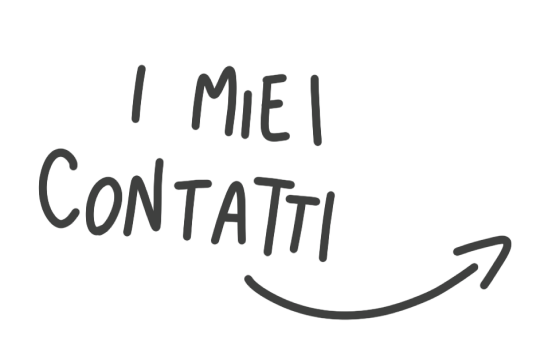
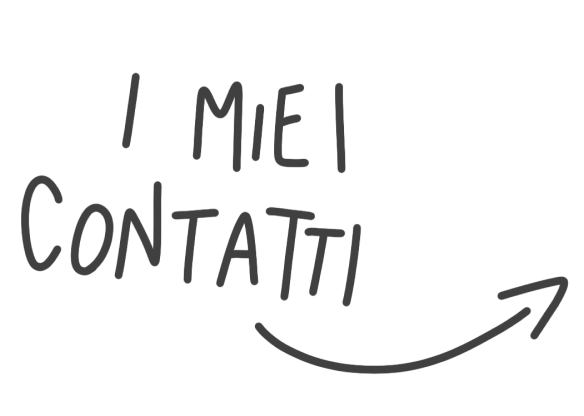
:bento: Add/Update Stickers

diff --git a/styles/style.css b/styles/style.css
@@ -237,6 +237,12 @@
 /* End Content Skills */
 
 /* Content Project */
+.content-cardboard-project{
+    display: flex;
+    flex-direction: column;
+    justify-content: space-between;
+    height: 100%;
+}
 .content-cardboard-project-header{
     display: flex;
     margin-bottom: 32px;
@@ -407,7 +413,6 @@ ion-icon{
     width: 220px;
     height: auto;
     border-radius: 20px;
-    
 }
 .popup img{
     width: 100px;
@@ -417,9 +422,9 @@ ion-icon{
 }
 /* End Pop Up */
 
-
-/* Stiker */
+/* Sticker Mobile*/
 .sticker-ciao{
+    display: block;
     position: absolute;
     width: 129px;
     height: 127px;
@@ -431,22 +436,83 @@ ion-icon{
     width: 100%;
     height: 100%;
 }
-.sticker-presentation{
+.sticker-about-desktop{
+    display: none;
+}
+.sticker-about-mobile-tablet{
+    display: block;
     position: absolute;
     width: 200px;
-    height: 114px;
-    top: -23px;
-    left: 357px;
-    transform: translate(-50%, -50%) rotate(315deg);
+    height: 89px;
+    left: 256px;
+    top: -31px;
+    transform: translate(-50%, -50%);
 }
-.sticker-presentation img{
+.sticker-about-mobile-tablet img,
+.sticker-about-desktop img{
     width: 100%;
     height: 100%;
 }
 .sticker-contacts{
     display: none;
 }
-/* End Stiker */
+.sticker-contacts img{
+    width: 100%;
+    height: 100%;
+}
+.sticker-skills{
+    display: block;
+    position: absolute;
+    width: 135px;
+    height: 120px;
+    left: 160px;
+    top: -17px;
+    transform: translate(-50%, -50%);
+}
+.sticker-skills img{
+    width: 100%;
+    height: 100%;
+}
+.sticker-study{
+    display: block;
+    position: absolute;
+    width: 108px;
+    height: 118px;
+    left: 302px;
+    top: 44px;
+    transform: translate(-50%, -50%);
+}
+.sticker-study img{
+    width: 100%;
+    height: 100%;
+}
+.sticker-project{
+    display: block;
+    position: absolute;
+    width: 301px;
+    height: 106px;
+    left: 413px;
+    top: 19px;
+    transform: translate(-50%, -50%);
+}
+.sticker-project img{
+    width: 100%;
+    height: 100%;
+}
+.sticker-contact-me{
+    display: block;
+    position: absolute;
+    width: 180px;
+    height: 93px;
+    left: 81px;
+    bottom: -69px;
+    transform: translate(-50%, -50%);
+}
+.sticker-contact-me img{
+    width: 100%;
+    height: 100%;
+}
+/* End Stiker Mobile */
 
 /* Device Content Tablet */
 /* 
@@ -517,13 +583,16 @@ ion-icon{
 
     /* Sticker */
     .sticker-ciao{
-        top: 3px;
         left: 25px;
     }
-    .sticker-presentation{
-        top: -1px;
-        left: 313px;
-        transform: rotate(0);
+    .sticker-contacts{
+        display: none;
+    }
+    .sticker-contact-me{
+        width: 237px;
+        height: 123px;
+        left: 413px;
+        bottom: -91px;
     }
     /* End Sticker */
 }
@@ -648,25 +717,36 @@ ion-icon{
 
     /* Sticker */
     .sticker-ciao{
-        top: 3px;
         left: 40px;
     }
-    .sticker-presentation{
-        left: 463px;
-        transform: rotate(0);
+    .sticker-about-mobile-tablet{
+        display: none;
+    }
+    .sticker-about-desktop{
+        display: block;
+        position: absolute;
+        width: 214px;
+        height: 123px;
+        top: 0px;
+        left: 560px;
+        transform: translate(-50%, -50%);
     }
     .sticker-contacts{
         display: block;
         position: absolute;
         width: 138px;
         height: 88px;
-        top: 114px;
-        left: -52px;
+        top: 94px;
+        left: -56px;
         transform: translate(-50%, -50%);
     }
-    .sticker-contacts img{
-        width: 100%;
-        height: 100%;
+    .sticker-study{
+        left: 363px;
+    }
+    .sticker-contact-me{
+        width: 237px;
+        height: 123px;
+        left: 887px;
     }
     /* End Sticker */
 }

diff --git a/index.html b/index.html
@@ -54,6 +54,7 @@
                         <img src="./assets/ciao.png" alt="ciao-icon">
                     </div>
                 </div>
+
                 <!-- Cardboard About -->
                 <div class="cardboard-about cardboard centered">
                     <div class="content-cardbord-about">
@@ -61,8 +62,13 @@
                         sempre pronta a mettere in gioco la mia <b>creatività</b> e <b>passione</b> per tradurre le idee in design accattivanti, mantenendo sempre <b>l’utente al centro del processo</b>. Determinata ad affrontare nuove sfide, arricchire il mio bagaglio e contribuire positivamente a progetti entusiasmanti. <br><b>Benvenuti nel mio portfolio!</b> dove ogni pixel ha un significato e ogni interazione è un'opportunità per stupire.
                        </p>
                     </div>
-                    <div class="sticker-presentation">
-                        <img src="./assets/mi-presento.png" alt="mi-presento-icon">
+
+                    <!-- Sticker -->
+                    <div class="sticker-about-mobile-tablet">
+                        <img src="./assets/mi-presento-m.png" alt="mi-presento-icon">
+                    </div>
+                    <div class="sticker-about-desktop">
+                        <img src="./assets/mi-presento-d.png" alt="mi-presento-icon">
                     </div>
                 </div>
             </div>
@@ -102,7 +108,7 @@
                 </div>
                 <!-- Sticker -->
                 <div class="sticker-contacts">
-                    <img src="./assets/i-miei-contatti.png" alt="i-miei-contatti-icon">
+                    <img src="./assets/i-miei-contatti.png" alt="i-miei-contatti.icon">
                 </div>
             </div>
 
@@ -131,9 +137,9 @@
                         </div>
                     </div>
                     <!-- Sticker -->
-                    <div class="sticker-skills">
-                        <img src="./assets/mi-diverto-con.png" alt="mi-diverto-con-icon">
-                    </div>
+                   <div class="sticker-skills">
+                        <img src="./assets/mi-diverto-con-d.png" alt="mi-diverto-con-icon">
+                   </div>
                 </div>
                 <!-- Cardboard Study -->
                 <div class="cardboard-study cardboard ">
@@ -149,6 +155,10 @@
                         <p class="text"><b>Laurea in Grafica d'Arte</b> 2018-2022</p>
                         <p class="text">Skills:</p>
                         <p class="text">Grafica, Psicologia della Forma, Utilizzo pacchetto Adobe.</p>
+                    </div>
+                    <!-- Sticker -->
+                    <div class="sticker-study">
+                        <img src="./assets/note-pad.png" alt="note-pad-icon">
                     </div>
                 </div>
             </div>
@@ -209,6 +219,10 @@
                 <div class="cta-send-message">
                     <button id="submit-button" onclick="sendMail()" class="button" type="submit">Invia il messaggio</button>
                 </div>
+            </div>
+            <!-- Sticker -->
+            <div class="sticker-contact-me">
+                <img src="./assets/facciamoci-un-caffe-d.png" alt="facciamoci-un-caffe-d-icon">
             </div>
         </div>
 

diff --git a/js/script.js b/js/script.js
@@ -75,10 +75,17 @@ function closePopup (){
 /**
  * gsap
  */
-// const tl = new gsap.timeline({defaults: {duration: 1}})
-// tl.from(".cardboard-image", { y: 200, autoAlpha: 0 });
-// tl.from(".cardboard-title", { y: 200, autoAlpha: 0 }, '<0.2');
-// tl.from(".cardboard-about", { y: 200, autoAlpha: 0 }, '<0.2');
-// tl.from(".cardboard-contacts", { x: -200, autoAlpha: 0 }, '<0.2');
-// tl.from(".skills-study", { x: 200, autoAlpha: 0 }, '<0.2');
-// tl.from(".cardboard-project", { y: 200, autoAlpha: 0 }, '<0.2');
+const tl = new gsap.timeline({defaults: {duration: 1}})
+tl.from(".cardboard-image", { y: 200, autoAlpha: 0 });
+tl.from(".cardboard-title", { y: 200, autoAlpha: 0 }, '<0.2');
+tl.from(".cardboard-about", { y: 200, autoAlpha: 0 }, '<0.2');
+tl.from(".cardboard-contacts", { x: -200, autoAlpha: 0 }, '<0.2');
+tl.from(".skills-study", { x: 200, autoAlpha: 0 }, '<0.2');
+tl.from(".cardboard-project", { y: 200, autoAlpha: 0 }, '<0.2');
+tl.from(".sticker-ciao", { autoAlpha: 0, duration: 0.4 }, '<1');
+tl.from(".sticker-about-mobile-tablet", { autoAlpha: 0, duration: 0.4 }, '<0.');
+tl.from(".sticker-about-desktop", { autoAlpha: 0, duration: 0.4 }, '<0.');
+tl.from(".sticker-contacts", { autoAlpha: 0, duration: 0.4 }, '<0.');
+tl.from(".sticker-skills", { autoAlpha: 0, duration: 0.4 }, '<0.');
+tl.from(".sticker-study", { autoAlpha: 0, duration: 0.4 }, '<0.');
+tl.from(".sticker-contact-me", { autoAlpha: 0, duration: 0.4 }, '<0.');
